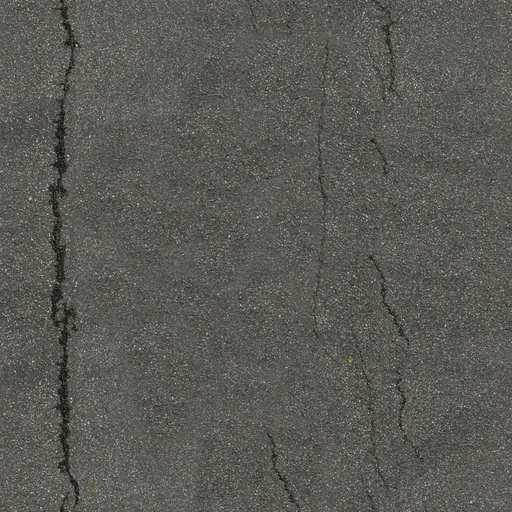
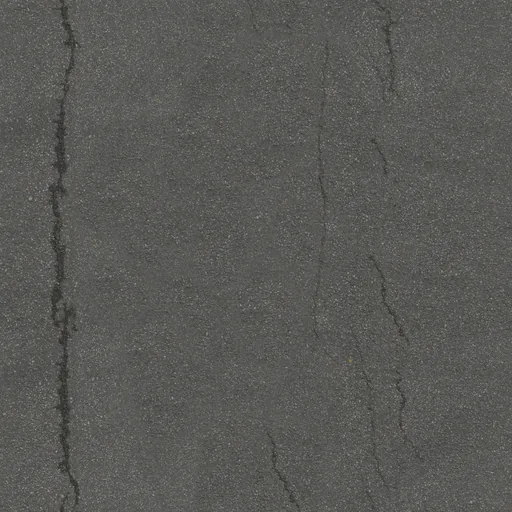
Unify town materials, frame reflective windows and sharpen sky and signs

diff --git a/drive/free.html b/drive/free.html
@@ -3,4 +3,4 @@
 <main><section id="viewport" aria-label="自由に走れる街"><canvas id="world" aria-label="街の3D走行画面"></canvas><div class="topline"><span id="area">教習所前</span><button id="camera" aria-label="視点を切り替える">車の後ろ</button></div><div class="map-wrap"><canvas id="map" width="220" height="220" aria-label="街の地図。黄色い矢印が現在地"></canvas><span>北 ↑</span></div><div id="notice" role="status" aria-live="polite"></div><div class="travel"><span id="trip">0.00 km</span><span id="visits">立ち寄り 0 / 4</span></div></section>
 <section class="cockpit" aria-label="運転操作"><div class="instruments"><div><strong id="speed">0</strong><small>km/h</small></div><span id="direction">前進</span><button id="gear" disabled aria-label="停止して前進とバックを切り替える">D ⇄ R</button></div><div class="inputs"><div class="wheel-wrap"><button id="wheel" aria-label="ハンドル。左右にドラッグ" disabled><svg viewBox="0 0 140 140" aria-hidden="true"><circle cx="70" cy="70" r="55"/><path d="M18 53 57 69M122 53 83 69M70 82v43"/><circle class="hub" cx="70" cy="70" r="18"/><path class="marker" d="M70 15v10"/></svg></button><div class="nudges"><button id="left" aria-label="左にハンドルを切る" disabled>←</button><span>ハンドル</span><button id="right" aria-label="右にハンドルを切る" disabled>→</button></div></div><button id="brake" class="pedal brake" disabled><i></i>ブレーキ</button><button id="gas" class="pedal gas" disabled><i></i>アクセル</button></div></section><p class="key-help">↑ アクセル · ↓ ブレーキ · ← → ハンドル · R 前進／バック · Esc 一時停止</p></main>
 <dialog id="menu" aria-labelledby="menu-title"><small class="eyebrow">FREE DRIVE</small><h2 id="menu-title">今日は、どこまで走ろう。</h2><p id="menu-copy">住宅街を抜けて、海沿いへ。<br>交差点は好きな方向へ曲がれます。</p><div class="destinations">教習所 / 商店街 / 中央公園 / 海辺の広場</div><p class="help">ペダルは長押し。ハンドルは左右へドラッグ。<br>停止して D ⇄ R を押すとバックできます。<br>目的地の近くで速度を落とすと、立ち寄りを記録します。</p><button id="start" class="primary" disabled>街を準備しています…</button><div class="settings"><button id="sound" aria-pressed="false">音：オフ</button><button id="quality" aria-pressed="false">画質：標準</button><button id="recover">道路に戻す</button></div><a id="menu-back" href="./">コース一覧に戻る</a><p id="save-status" class="help"></p></dialog>
-<script type="module" src="./free-app.mjs?v=assets1"></script></body></html>
+<script type="module" src="./free-app.mjs?v=materials1"></script></body></html>

diff --git a/dev/scripts/convert-town-assets.py b/dev/scripts/convert-town-assets.py
@@ -1,6 +1,6 @@
 # Run with the downloaded Kenney packs and Poly Haven originals in /tmp/town-assets.
 from pathlib import Path
-from PIL import Image
+from PIL import Image,ImageEnhance,ImageDraw
 import json,math,shutil
 out=Path('drive/assets/external')
 for src,name,size in [('asphalt.jpg','asphalt.webp',(512,512)),('wall.jpg','plaster.webp',(512,512)),('sky.jpg','sky.webp',(1024,512))]:
@@ -36,3 +36,13 @@ def convert(pack,name,target):
 convert('cars','sedan','sedan.json');convert('nature','tree_detailed','tree.json');convert('nature','rock_smallA','rock.json')
 for pack in ['cars','nature']:shutil.copy('/tmp/town-assets/'+pack+'/License.txt',out/('kenney-'+pack+'-license.txt'))
 for p in out.iterdir():print(p.name,p.stat().st_size)
+
+# Style-unification derivatives (2026-10-17).
+asphalt=Image.open('/tmp/town-assets/asphalt.jpg').convert('RGB').resize((512,512),Image.Resampling.LANCZOS)
+ImageEnhance.Contrast(asphalt).enhance(.6).save(out/'asphalt.webp',quality=82,method=6)
+Image.open('/tmp/town-assets/sky.jpg').convert('RGB').resize((2048,1024),Image.Resampling.LANCZOS).save(out/'sky-background.webp',quality=88,method=6)
+paving=Image.open(out/'plaster.webp').convert('RGB');draw=ImageDraw.Draw(paving)
+for row in range(4):
+ y=row*128;draw.line((0,y,511,y),fill=(170,171,165),width=2)
+ for x in range((row%2)*64,512,128):draw.line((x,y,x,y+128),fill=(181,182,175),width=2)
+paving.save(out/'paving.webp',quality=84,method=6)

diff --git a/drive/assets/external/SOURCES.md b/drive/assets/external/SOURCES.md
@@ -4,9 +4,9 @@ Downloaded 2026-10-17 JST. All listed source assets are CC0. Served locally; no 
 
 - Kenney Car Kit 3.1: https://kenney.nl/assets/car-kit — sedan.obj / sedan.mtl. Converted to position and linear vertex-color JSON; wheels retained as separate groups. Runtime scale/orientation adjusted. Original license: kenney-cars-license.txt.
 - Kenney Nature Kit: https://kenney.nl/assets/nature-kit — tree_detailed.obj and rock_smallA.obj with MTL colors. Converted to position and linear vertex-color JSON, rendered with shared instanced geometry. Original license: kenney-nature-license.txt.
-- Poly Haven Asphalt 02, Rob Tuytel: https://polyhaven.com/a/asphalt_02 — 1K diffuse JPG resized to 512px WebP.
-- Poly Haven Plastered Wall 02, Charlotte Baglioni: https://polyhaven.com/a/plastered_wall_02 — 1K diffuse JPG resized to 512px WebP; used for plaster and simple paved surfaces.
-- Poly Haven Kloofendal 48d Partly Cloudy (Pure Sky), Greg Zaal / Jarod Guest: https://polyhaven.com/a/kloofendal_48d_partly_cloudy_puresky — tonemapped JPG resized to 1024×512 WebP. This is an LDR background/environment, not full HDR lighting.
+- Poly Haven Asphalt 02, Rob Tuytel: https://polyhaven.com/a/asphalt_02 — 1K diffuse JPG resized to 512px WebP; asphalt contrast reduced to 60% for style matching.
+- Poly Haven Plastered Wall 02, Charlotte Baglioni: https://polyhaven.com/a/plastered_wall_02 — 1K diffuse JPG resized to 512px WebP; used for plaster; paving.webp adds subtle tile joints to this source.
+- Poly Haven Kloofendal 48d Partly Cloudy (Pure Sky), Greg Zaal / Jarod Guest: https://polyhaven.com/a/kloofendal_48d_partly_cloudy_puresky — tonemapped JPG resized to 1024×512 WebP for environment lighting and 2048×1024 for the visible background. This is an LDR background/environment, not full HDR lighting.
 - Poly Haven license: https://polyhaven.com/license
 - CC0: https://creativecommons.org/publicdomain/zero/1.0/
 
